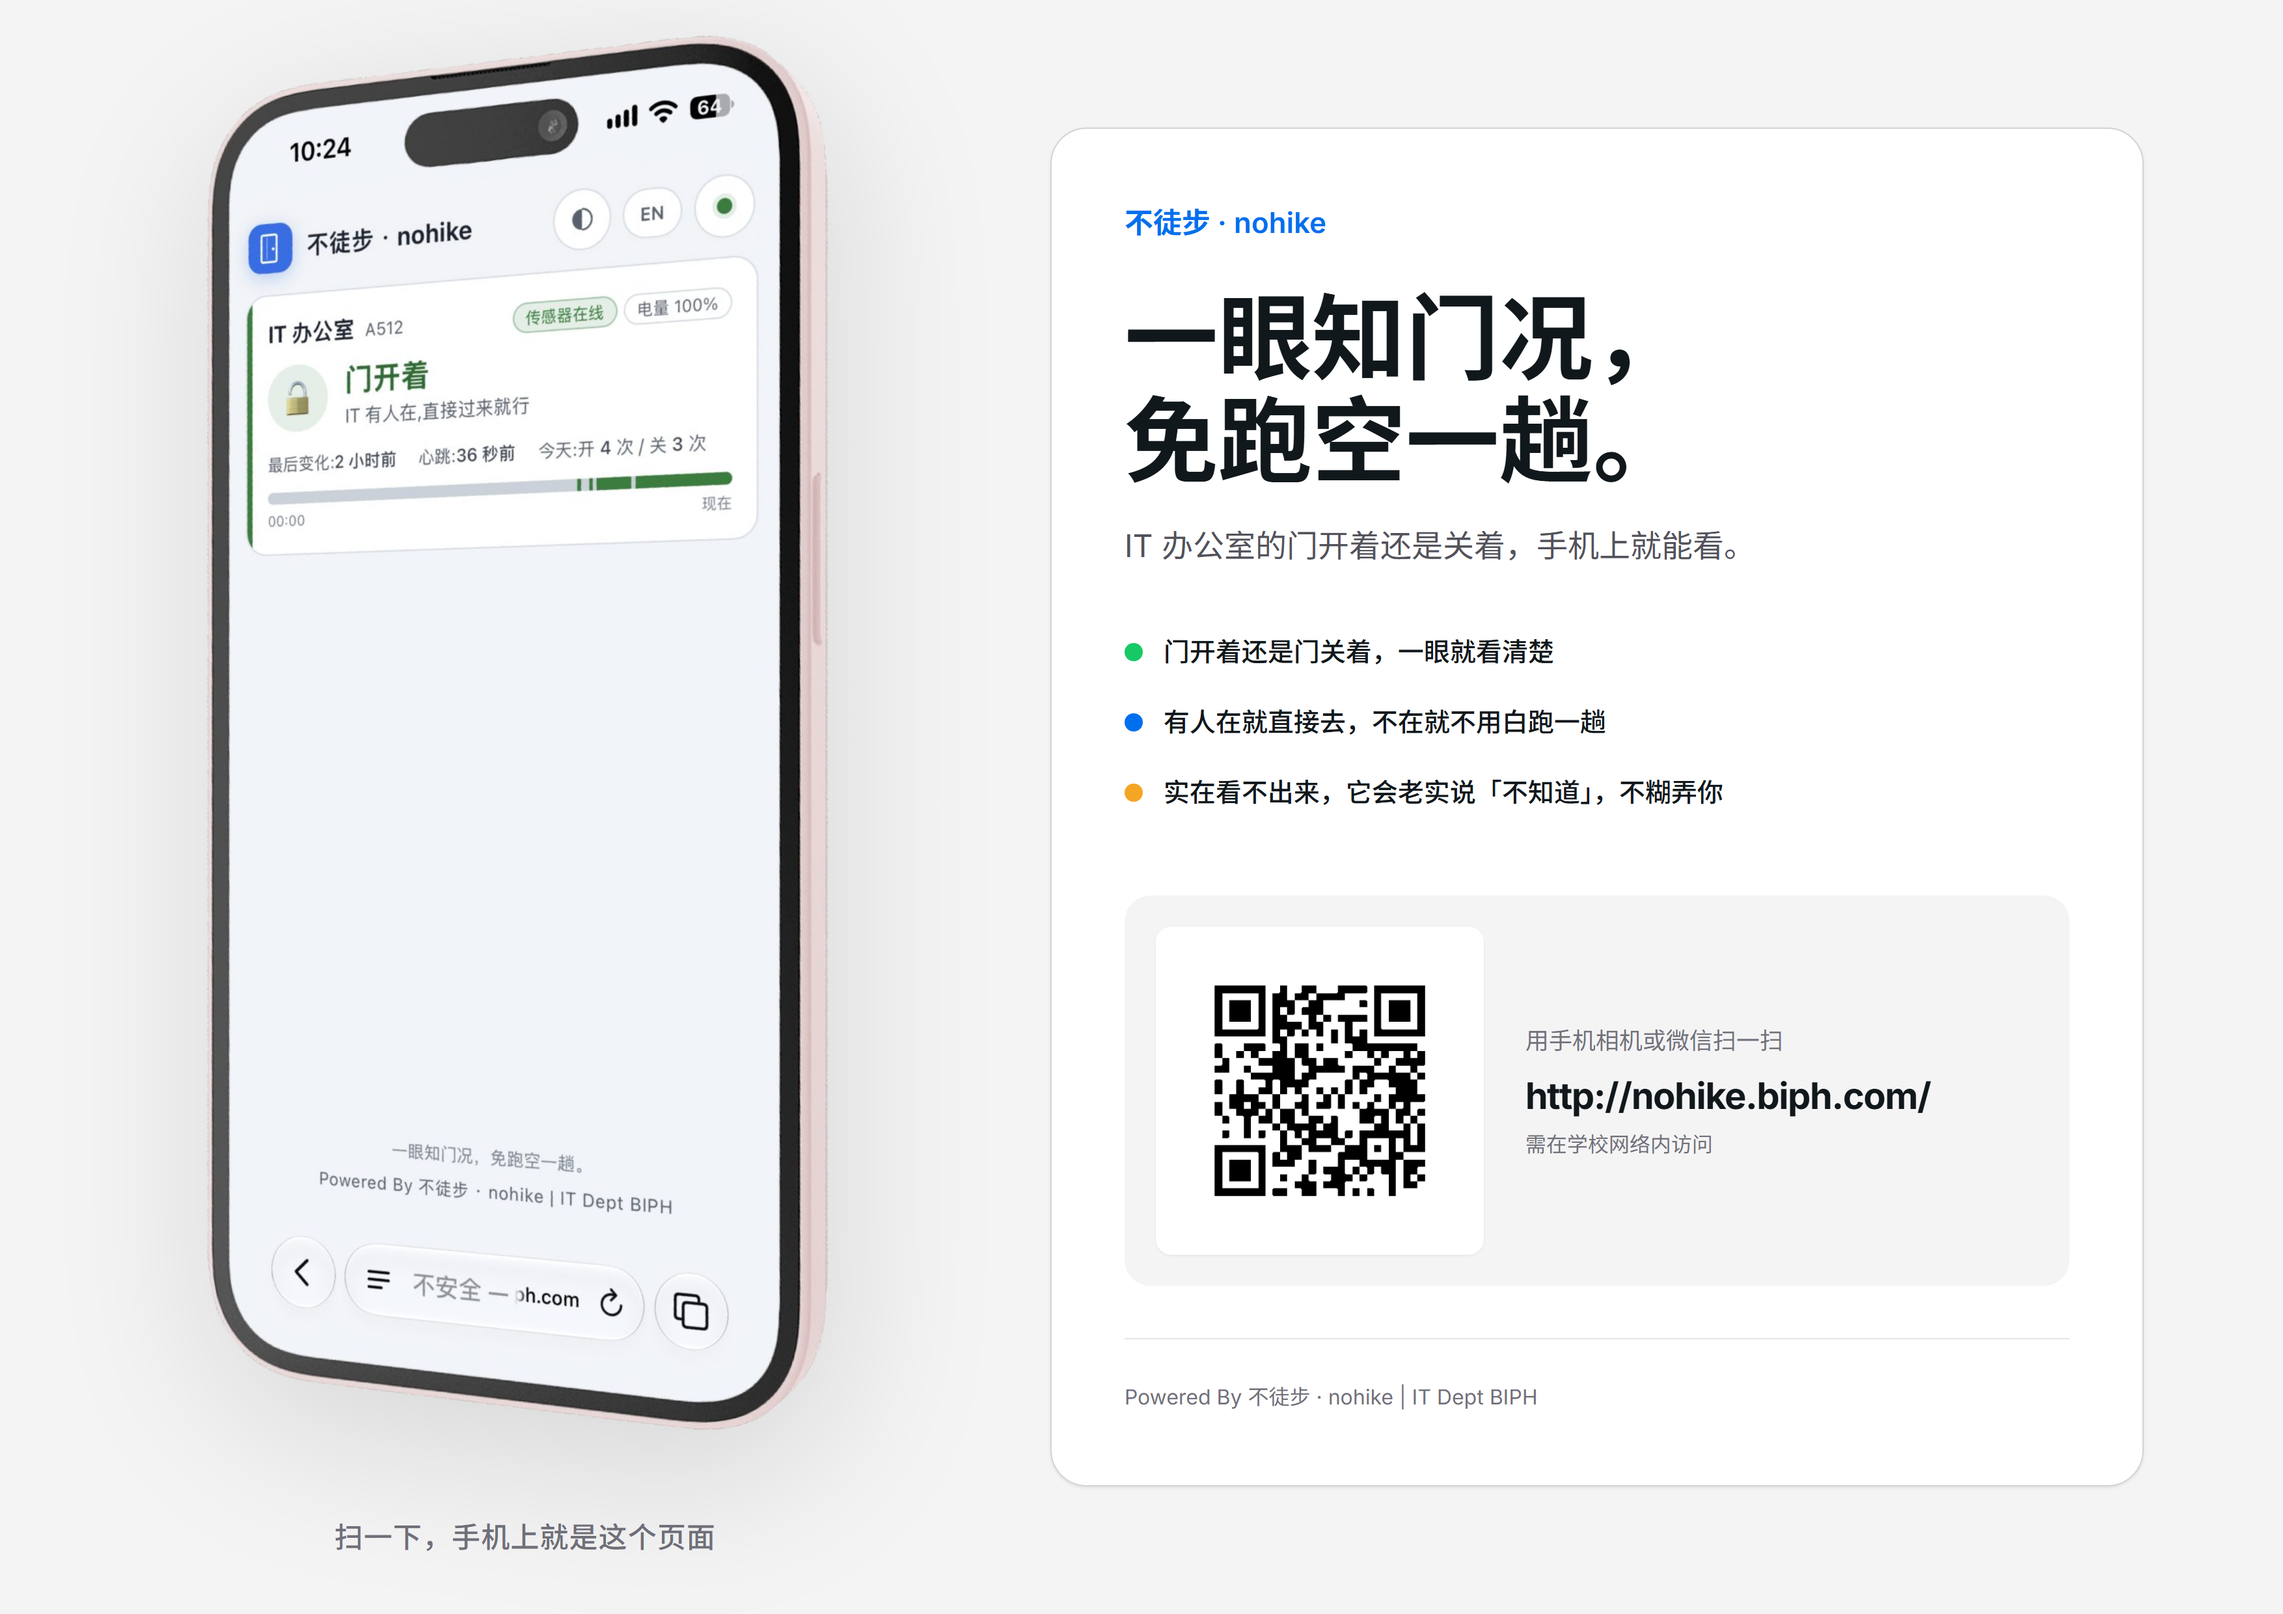
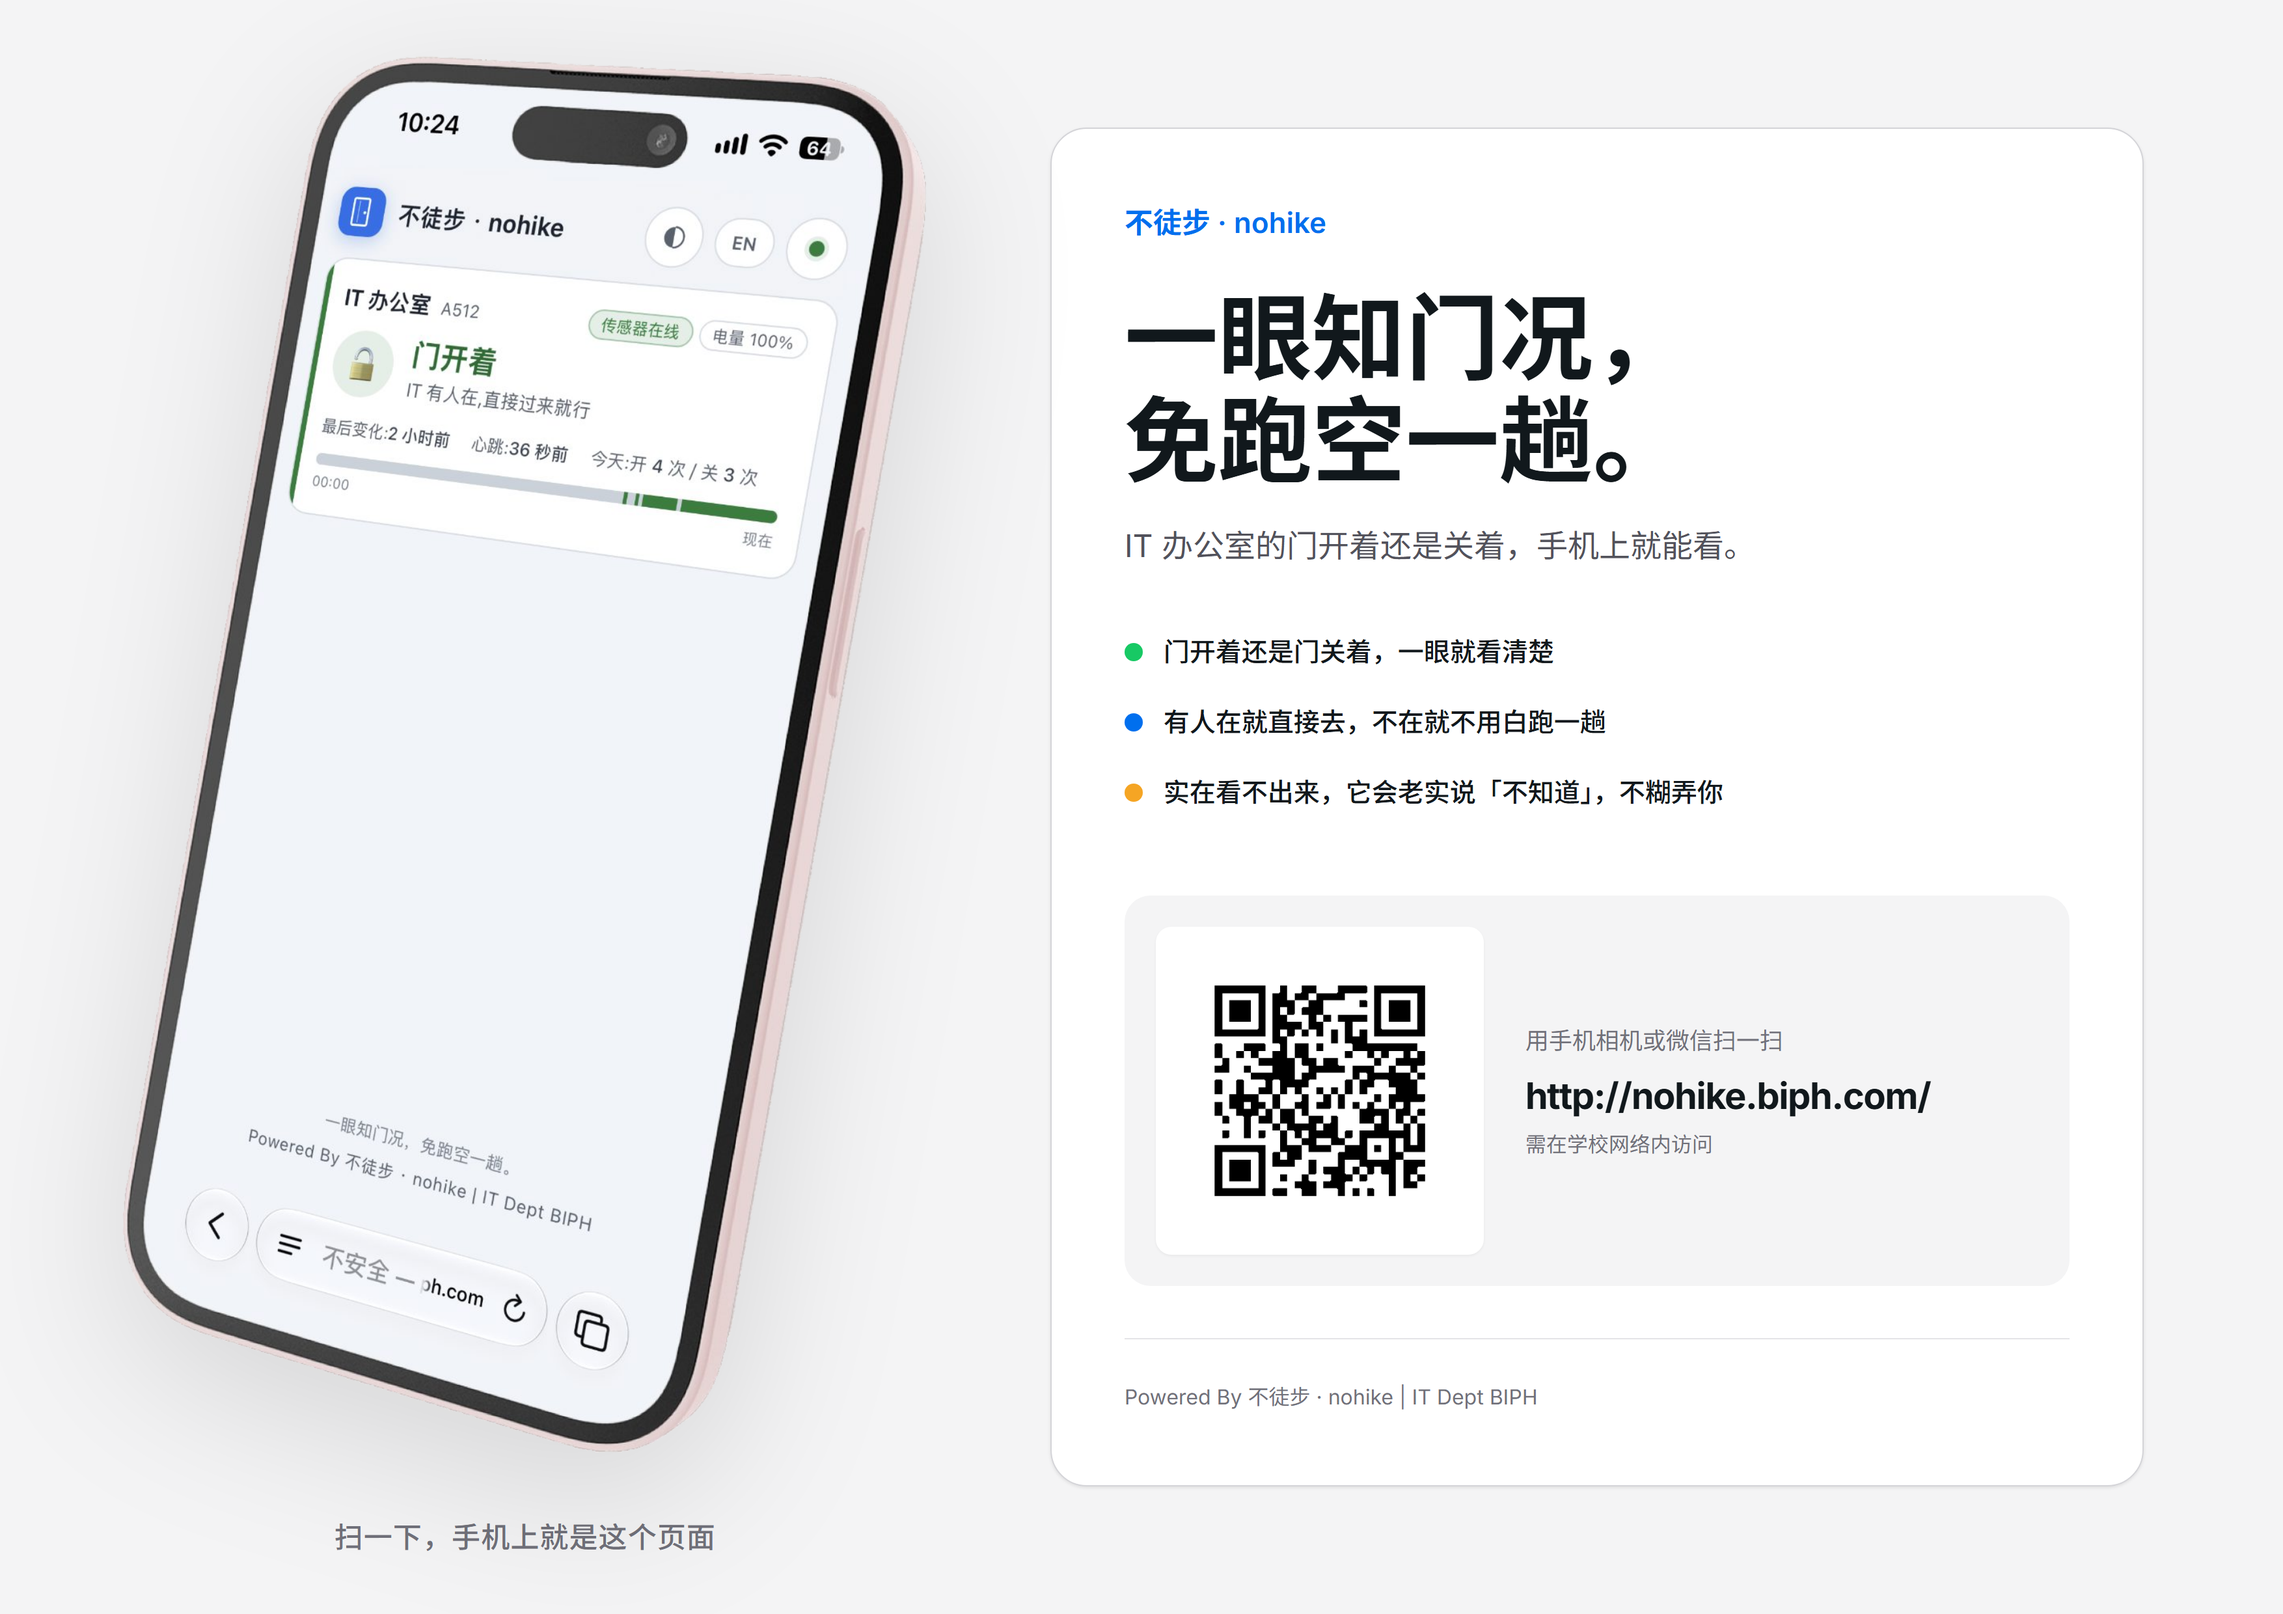
fix: 浅色海报去掉手机多出来的旋转,恢复原图角度
手机实拍素材**原图就是斜的**(相对垂直 3.8°,顶部偏右),
但 Superdesign 以为需要摆造型,又给叠了一层 rotate(-10deg) ——
等于多转了一次,方向都反过来了(合成 -6.2°,顶部偏左)。

去掉这个旋转就等于完全恢复原图角度(等比缩放不影响倾角)。

实测(对黑色边框做 PCA 求主轴):
  原图素材   tiltDeg -86.2°  顶部偏右
  修正后海报 tiltDeg -86.3°  顶部偏右
  → 差 0.1°,在测量误差内

顺带修了 fix-draft.mjs 的一个 bug:replace 的第一个参数传字符串时是
**字面匹配**,带转义反斜杠的正则写法匹配不上,导致这条规则静默不生效。
已改成正则字面量。

Superdesign 草稿已回传 v3(两份都是):
- 中文 b9fa2742-ac9a-4572-9c6d-8e53b0ec78f6
- 英文 4ab27228-aaa6-4ce3-b453-2bcd6bba7d4a

验证:两张成品 PNG(3508x2480)反解仍得 http://nohike.biph.com/;
渲染探针无元素越界。

Changed region(s): [[0.0932, 0.0, 0.4039, 0.4657], [0.0311, 0.4657, 0.3729, 0.9004]]

diff --git a/docs/posters/poster-d-light.html b/docs/posters/poster-d-light.html
@@ -1,1 +1,1 @@
-<!DOCTYPE html><html><head><script src="assets/tailwind.js"></script><style>@import url('https://fonts.googleapis.com/css2?family=Inter:wght@400;500;600;700&family=Noto+Sans+SC:wght@400;500;700&display=swap'); body { font-family: 'Inter', 'Noto Sans SC', sans-serif; -webkit-font-smoothing: antialiased; }</style></head><body><div class="w-full h-screen overflow-hidden relative bg-[#f4f4f5] flex items-center select-none" data-sd-id="1"><div class="w-[46%] h-full flex flex-col items-center justify-center relative" data-sd-id="2"><div class="relative flex flex-col items-center transform rotate-[-10deg] drop-shadow-[0_35px_60px_rgba(0,0,0,0.12)]" data-sd-id="3"><img src="assets/phone-angle-light-zh.png" alt="Phone Interface" class="w-[620px] object-contain" data-sd-id="4"></div><div class="mt-12 text-[#71717a] text-[22px] font-medium tracking-wide" data-sd-id="5">扫一下，手机上就是这个页面</div></div><div class="w-[54%] h-full flex items-center justify-start pr-[100px]" data-sd-id="6"><div class="bg-white w-[840px] rounded-[28px] border border-[#d4d4d8] shadow-[0_1px_2px_rgba(0,0,0,0.04),0_1px_3px_rgba(0,0,0,0.06)] p-[56px] flex flex-col" data-sd-id="7"><div class="text-[#006fee] font-semibold text-[22px] mb-8" data-sd-id="8">不徒步 · nohike</div><h1 class="text-[72px] leading-[1.1] font-bold text-[#11181c] mb-6" data-sd-id="9">一眼知门况，<br>免跑空一趟。</h1><p class="text-[24px] text-[#52525b] mb-12" data-sd-id="10">IT 办公室的门开着还是关着，手机上就能看。</p><div class="space-y-6 mb-16" data-sd-id="11"><div class="flex items-center gap-4" data-sd-id="12"><div class="w-[14px] h-[14px] rounded-full bg-[#17c964]" data-sd-id="13"></div><span class="text-[20px] text-[#11181c] font-medium" data-sd-id="14">门开着还是门关着，一眼就看清楚</span></div><div class="flex items-center gap-4" data-sd-id="15"><div class="w-[14px] h-[14px] rounded-full bg-[#006fee]" data-sd-id="16"></div><span class="text-[20px] text-[#11181c] font-medium" data-sd-id="17">有人在就直接去，不在就不用白跑一趟</span></div><div class="flex items-center gap-4" data-sd-id="18"><div class="w-[14px] h-[14px] rounded-full bg-[#f5a524]" data-sd-id="19"></div><span class="text-[20px] text-[#11181c] font-medium" data-sd-id="20">实在看不出来，它会老实说「不知道」，不糊弄你</span></div></div><div class="bg-[#f4f4f5] rounded-[20px] p-6 flex items-center gap-8 mb-10" data-sd-id="21"><div class="bg-white p-4 rounded-xl shadow-sm flex-shrink-0" data-sd-id="22"><img src="assets/qr-nohike.png" alt="QR Code" class="w-[220px] h-[220px]" data-sd-id="23"></div><div class="flex flex-col justify-center" data-sd-id="24"><div class="text-[#71717a] text-[18px] mb-2" data-sd-id="25">用手机相机或微信扫一扫</div><div class="text-[#11181c] text-[28px] font-bold tracking-tight mb-1" data-sd-id="26">http://nohike.biph.com/</div><div class="text-[#71717a] text-[16px]" data-sd-id="27">需在学校网络内访问</div></div></div><div class="pt-8 border-t border-[#e4e4e7] text-[#71717a] text-[16px] flex justify-between items-center" data-sd-id="28"><span data-sd-id="29">Powered By 不徒步 · nohike | IT Dept BIPH</span></div></div></div></div></body></html>
+<!DOCTYPE html><html><head><script src="assets/tailwind.js"></script><style>@import url('https://fonts.googleapis.com/css2?family=Inter:wght@400;500;600;700&family=Noto+Sans+SC:wght@400;500;700&display=swap'); body { font-family: 'Inter', 'Noto Sans SC', sans-serif; -webkit-font-smoothing: antialiased; }</style></head><body><div class="w-full h-screen overflow-hidden relative bg-[#f4f4f5] flex items-center select-none" data-sd-id="1"><div class="w-[46%] h-full flex flex-col items-center justify-center relative" data-sd-id="2"><div class="relative flex flex-col items-center transform rotate-0 drop-shadow-[0_35px_60px_rgba(0,0,0,0.12)]" data-sd-id="3"><img src="assets/phone-angle-light-zh.png" alt="Phone Interface" class="w-[620px] object-contain" data-sd-id="4"></div><div class="mt-12 text-[#71717a] text-[22px] font-medium tracking-wide" data-sd-id="5">扫一下，手机上就是这个页面</div></div><div class="w-[54%] h-full flex items-center justify-start pr-[100px]" data-sd-id="6"><div class="bg-white w-[840px] rounded-[28px] border border-[#d4d4d8] shadow-[0_1px_2px_rgba(0,0,0,0.04),0_1px_3px_rgba(0,0,0,0.06)] p-[56px] flex flex-col" data-sd-id="7"><div class="text-[#006fee] font-semibold text-[22px] mb-8" data-sd-id="8">不徒步 · nohike</div><h1 class="text-[72px] leading-[1.1] font-bold text-[#11181c] mb-6" data-sd-id="9">一眼知门况，<br>免跑空一趟。</h1><p class="text-[24px] text-[#52525b] mb-12" data-sd-id="10">IT 办公室的门开着还是关着，手机上就能看。</p><div class="space-y-6 mb-16" data-sd-id="11"><div class="flex items-center gap-4" data-sd-id="12"><div class="w-[14px] h-[14px] rounded-full bg-[#17c964]" data-sd-id="13"></div><span class="text-[20px] text-[#11181c] font-medium" data-sd-id="14">门开着还是门关着，一眼就看清楚</span></div><div class="flex items-center gap-4" data-sd-id="15"><div class="w-[14px] h-[14px] rounded-full bg-[#006fee]" data-sd-id="16"></div><span class="text-[20px] text-[#11181c] font-medium" data-sd-id="17">有人在就直接去，不在就不用白跑一趟</span></div><div class="flex items-center gap-4" data-sd-id="18"><div class="w-[14px] h-[14px] rounded-full bg-[#f5a524]" data-sd-id="19"></div><span class="text-[20px] text-[#11181c] font-medium" data-sd-id="20">实在看不出来，它会老实说「不知道」，不糊弄你</span></div></div><div class="bg-[#f4f4f5] rounded-[20px] p-6 flex items-center gap-8 mb-10" data-sd-id="21"><div class="bg-white p-4 rounded-xl shadow-sm flex-shrink-0" data-sd-id="22"><img src="assets/qr-nohike.png" alt="QR Code" class="w-[220px] h-[220px]" data-sd-id="23"></div><div class="flex flex-col justify-center" data-sd-id="24"><div class="text-[#71717a] text-[18px] mb-2" data-sd-id="25">用手机相机或微信扫一扫</div><div class="text-[#11181c] text-[28px] font-bold tracking-tight mb-1" data-sd-id="26">http://nohike.biph.com/</div><div class="text-[#71717a] text-[16px]" data-sd-id="27">需在学校网络内访问</div></div></div><div class="pt-8 border-t border-[#e4e4e7] text-[#71717a] text-[16px] flex justify-between items-center" data-sd-id="28"><span data-sd-id="29">Powered By 不徒步 · nohike | IT Dept BIPH</span></div></div></div></div></body></html>

diff --git a/docs/posters/poster-d-light-en.html b/docs/posters/poster-d-light-en.html
@@ -31,7 +31,7 @@
     <!-- LEFT ZONE: Phone Visual (46%) -->
     <div class="w-[46%] h-full flex flex-col items-center justify-center p-20" data-sd-id="2">
       <div class="relative flex flex-col items-center" data-sd-id="3">
-        <img src="assets/phone-angle-light-en.png" class="phone-shadow rotate-[-10deg] w-[580px] h-auto object-contain" alt="iPhone Dashboard Preview" data-sd-id="4">
+        <img src="assets/phone-angle-light-en.png" class="phone-shadow rotate-0 w-[580px] h-auto object-contain" alt="iPhone Dashboard Preview" data-sd-id="4">
         <p class="mt-16 text-[#71717a] text-[22px] tracking-wide font-medium" data-sd-id="5">Scan — this is what your phone shows</p>
       </div>
     </div>
